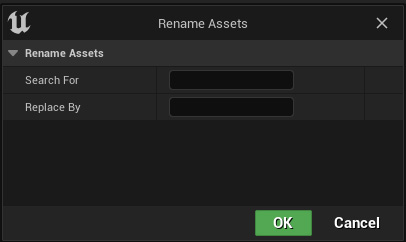
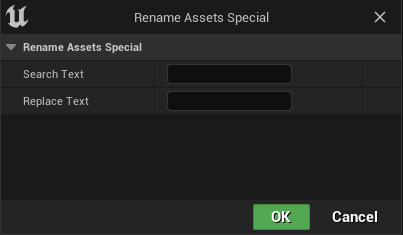
Added 3 pictures Updated asset action utility bluprint post

diff --git a/_posts/2023-05-13-how-to-create-renaming-tool-in-blueprints.md b/_posts/2023-05-13-how-to-create-renaming-tool-in-blueprints.md
@@ -28,6 +28,33 @@ We are going to create a renaming tool that searches for a selected string in se
 
 ## Create the Asset Action Utility in Blueprints
 
-Text...
+First we need to create the Asset Action Utility BLueprint. For that, I've created a folder called Blueprints and right clicking on it, I've selected Editor Utility Blueprint in the Editor Utilities section in the displayed menu.
 
+<img class="img" src="https://tvillalbac.github.io/blog/assets/img/posts/creating-an-editor-utility-blueprint-in-unreal-engine-5.jpg" alt="Creating asset action utility in blueprints">
 
+I've called it EUB_ContentBrowserTools as this name is only for sorting purposes, our actions names will be the names of the functions we'll be creating inside the EUB. We open the blueprint and we click on Add button at the top of MyBlueprint tab and select Function.
+
+<img class="img" src="https://tvillalbac.github.io/blog/assets/img/posts/creating-a-function-in-an-asset-action-utility-blueprint-in-unreal-engine-5.jpg" alt="Creating function in asset action utility in blueprints">
+
+I called this function RenameAssetsSpecial and, as I explained before, this will be the displayed name for the action and the tool window title. I added to String inputs to the function, one called SearchText, the other one called ReplaceText. This will give us the values we input in the ui after we click in "Ok" button.
+
+<img class="img" src="https://tvillalbac.github.io/blog/assets/img/posts/creating-function-inputs-in-asset-action-utility-blueprint-in-unreal-engine-5.jpg" alt="Creating function inputs in asset action utility in blueprints">
+
+Then, I added the Get Selected Assets node and linked to a For Each Loop fed by the Return Value of the Get Selected Assets node. The graph will be making an operation iin every asset in selection.
+
+<img class="img" src="https://tvillalbac.github.io/blog/assets/img/posts/get-selected-assets-and-loop-asset-action-utility-blueprint-in-unreal-engine-5.jpg" alt="Get selected assets and loop in asset action utility in blueprints">
+
+We got the name of every asset using the Get Object Name node having the Array Element output of the For Each Loop as Object input and link the Return Value to the Source String input of a Replace node. We want to replace the SearchText value by the ReplaceText value in every asset in the selection, if it exists, and this Replace node is the best suitable for it as it will look for the value in From input and replace by the value of To input, only if the From value exists.
+
+So, I linked the SearchText and ReplaceText inputs from the Function to the From and TO inputs of the Replace node and keep ignore case as value in Search Case input enumerator. We are almost there!
+
+<img class="img" src="https://tvillalbac.github.io/blog/assets/img/posts/get-object-name-and-replace-in-asset-action-utility-blueprint-in-unreal-engine-5.jpg" alt="Get object name and replace in asset action utility in blueprints">
+
+Finally, I linked the Loop Body execution output of the For Each Loop to the Execution input of a Rename Asset node, which inputs will be the Array Element output of the For Each Loop node as Asset and the Return Value of the Replace node as New Name inputs.
+
+I Added a Print String node with an "Assets Renamed!" message for being displayed after the loop has finished. Click on Compile and Save. We have our graph ready!
+
+<img class="img" src="https://tvillalbac.github.io/blog/assets/img/posts/rename-asset-and-print-success-in-asset-action-utility-blueprint-in-unreal-engine-5.jpg" alt="Rename asset and print success in asset action utility in blueprints">
+<img class="img" src="https://tvillalbac.github.io/blog/assets/img/posts/rename-asset-action-utility-blueprints-full-unreal-engine-5.jpg" alt="Finished asset action utility in blueprints">
+
+It's time to test it in any asset in UE5 Content Browser.
